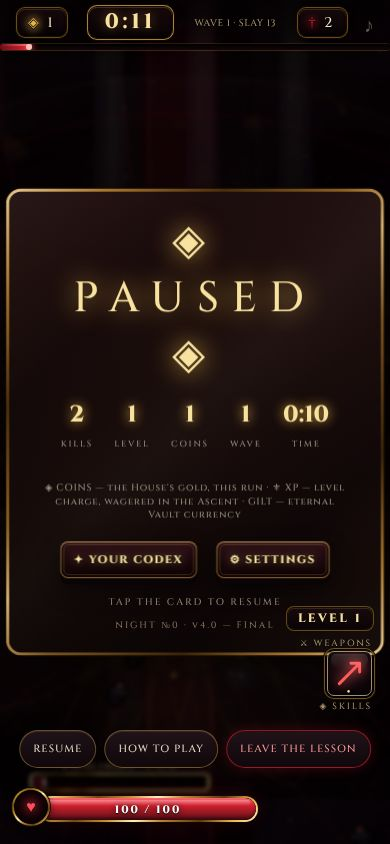
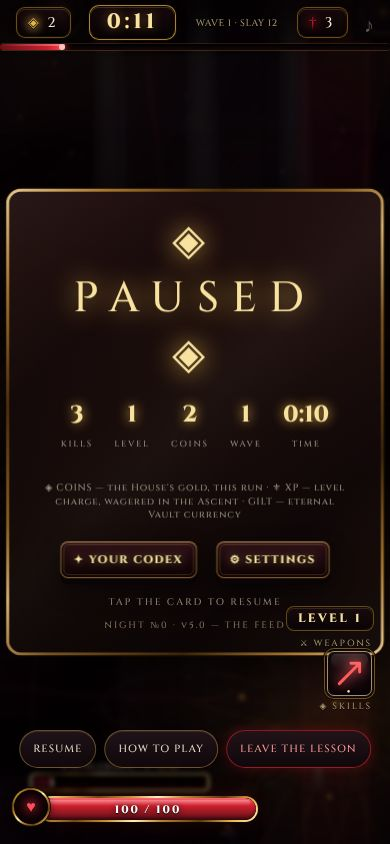
J3 integration: lesson.js in the offline precache, the House's tip box steps aside for the lesson bar on phones, changelog
Claude-Session: https://claude.ai/code/session_01LfZkkF7Ex9CahCtvUfnFA3

diff --git a/sw.js b/sw.js
@@ -5,7 +5,7 @@
 // (ante-mortem.html). Missing files are skipped, never fatal.
 'use strict';
 const CACHE = 'ante-mortem-v5-j';
-const SRC = ['core', 'sfx', 'fx', 'weapons', 'passives', 'tarot', 'wheel', 'ascent', 'slot', 'marker', 'ranks', 'vault', 'ui', 'daily'];
+const SRC = ['core', 'sfx', 'fx', 'weapons', 'passives', 'tarot', 'wheel', 'ascent', 'slot', 'marker', 'ranks', 'vault', 'ui', 'daily', 'lesson'];
 const PRECACHE = ['./', './index.html', './styles.css', './ante-mortem.html', './manifest.webmanifest',
   './icons/icon-192.png', './icons/icon-512.png', './icons/icon-maskable-512.png', './icons/icon-180.png', './icons/icon.svg']
   .concat(SRC.map(s => './src/' + s + '.js'));

diff --git a/styles.css b/styles.css
@@ -2554,3 +2554,5 @@ body.lessonOn #a2Notes.a2play{top:calc(var(--lsnB,148px) + 8px);}
 #lessonBar.one .lsnT{font-size:12px;letter-spacing:.14em;white-space:nowrap;}
 #lessonBar.one .lsnD{font-size:10px;letter-spacing:.06em;line-height:1.3;}
 #lessonBar.fold{transition:none;}
+/* the lesson bar already says it — on narrow screens the House's tip box steps aside during the lesson */
+@media (max-width:600px){ body.lessonOn #coachToast{display:none!important;} }

diff --git a/CHANGELOG_NIGHT.md b/CHANGELOG_NIGHT.md
@@ -13,6 +13,16 @@ The director said the RAGE bar felt like a chore, the 7.77 Ascent almost never p
   - III: THE ARMORY, a pick of 3 epic/legendary weapons and skills.
   - ☆ 7.77: an Ascension plus two FEAST slots.
   - Reaching each rung is far likelier than before: 82/58/35/12% (was 75/40/15/4).
+- **THE LESSON (J3):** a two-minute interactive tutorial. Start it from the menu's ✒ THE LESSON button, the "NEW HERE?" chip a first-timer sees under PLAY TONIGHT, or T.
+  - Six steps, each with its own gilt banner and live status: walk, hunt, feed the bar, pull the reels, spin the wheel, ride the Ascent.
+  - You can't die, and it leaves no trace on your save (no runs, marks or records). It ends with a LESSON LEARNED fanfare.
+  - The bot finishes it in about 40 game-seconds on desktop and phone.
+- **Little things:**
+  - Vesper wears the feed as a colored halo, with an alarm when it's about to starve.
+  - Two new secrets: THE GLUTTON and THE ARMORER.
+  - Tier banners come in their jewel colors.
+  - Night one's 0:00 trophy toasts now wait their turn.
+  - v5.0 stamps, and the offline install updates itself and stores every script.
 - **Balance (bot, 16 nights each):** median survival went from 3:50 to ~5:40, with more levels. The Ascent now pays real power. If it should bite harder, the first knob is the tier II heal.
 
 # THE LONG NIGHT — what changed on 2026-11-04
